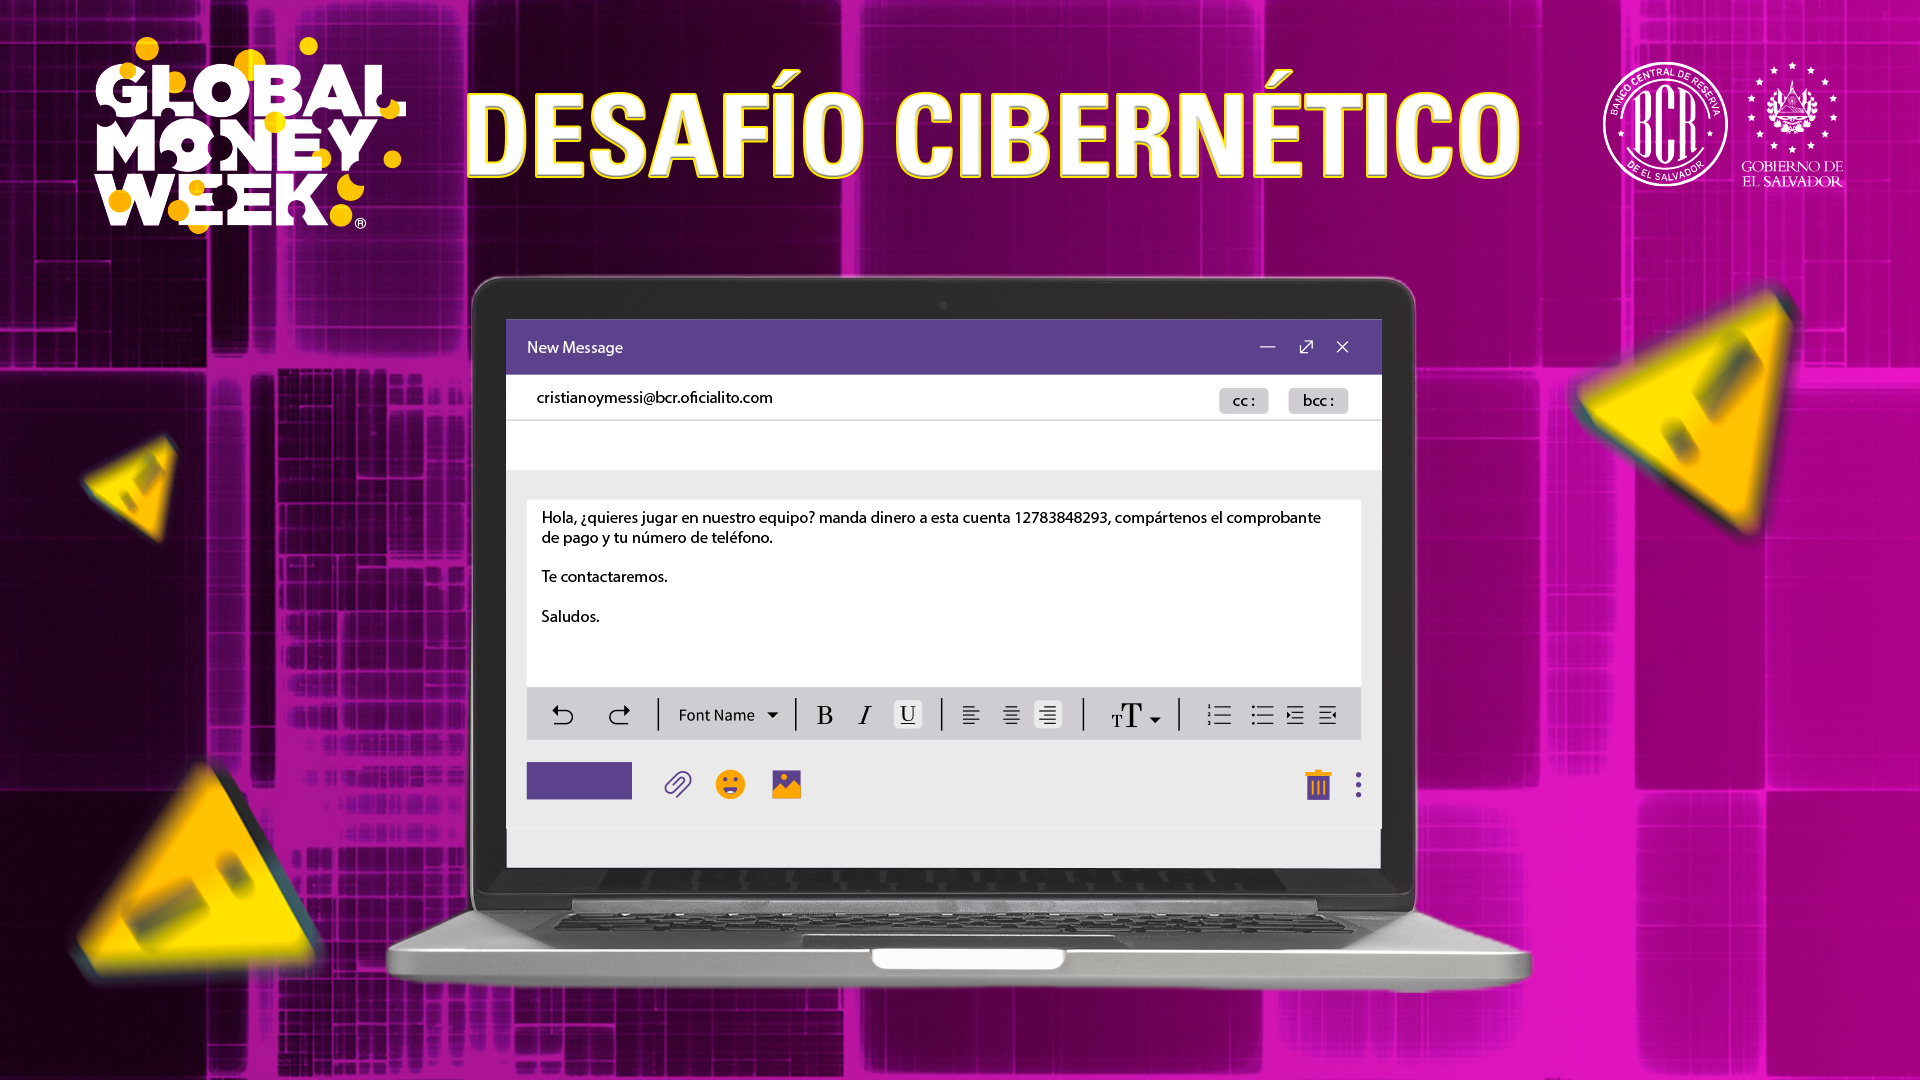
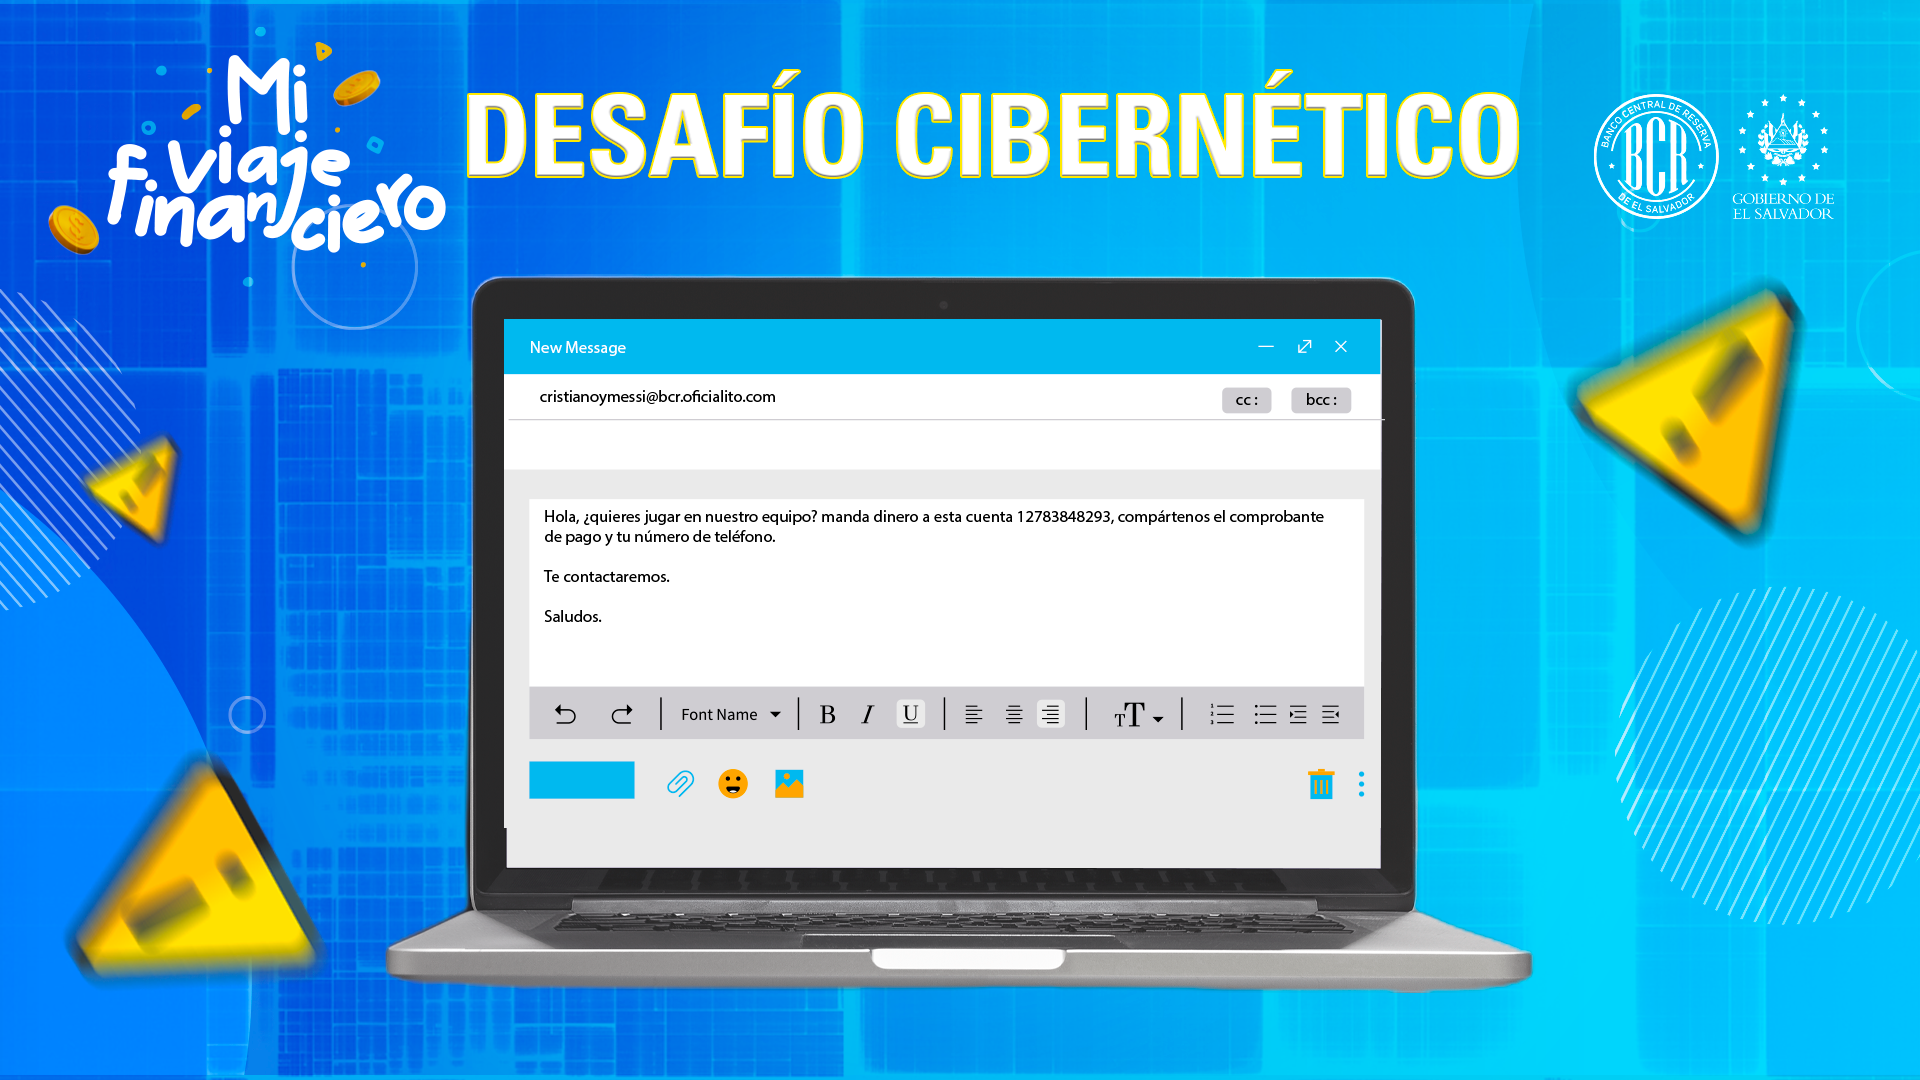
Add files via upload

diff --git a/styleswipe.css b/styleswipe.css
@@ -1,6 +1,6 @@
 
   body {
-      background: linear-gradient(-45deg, #df5bbe, #4e1542);
+    background: linear-gradient(-45deg, #006699, #003366);
       background-size: 400% 400%;
       animation: gradient 5s ease infinite;
       height: 100vh;
@@ -16,6 +16,8 @@
           background-position: 0% 50%;
       }
   }
+
+  
   /*-------------------------------------------------------------------------------------------------*/
   /* Interlace */
   body::after {
@@ -48,13 +50,13 @@
     letter-spacing: 1px;
     text-transform: uppercase;
     font-size: 28px;
-    text-shadow: 0 0 10px rgb(252, 169, 255);
+    text-shadow: 0 0 10px rgb(169, 206, 255);
     transition: text-shadow 0.2s ease-in-out;
     margin: 30px auto;
     line-height: 1.3;
 }
 h1:hover {
-    text-shadow: 0 0 15px rgb(251, 148, 255);
+    text-shadow: 0 0 15px rgb(148, 221, 255);
 }
 p {
     color: #ffffff;
@@ -140,14 +142,14 @@ img {
 	border: 10px solid #ffffff2f;
 	border-radius: 8px;
 	box-shadow: 0 10px 6px -6px rgba(255, 255, 255, 0.5);
-	-moz-box-shadow: 0 10px 6px -6px rgba(248, 40, 255, 0.5);
-	-webkit-box-shadow: 0 10px 6px -6px rgba(198, 76, 255, 0.5);
+	-moz-box-shadow: 0 10px 6px -6px #003366;
+	-webkit-box-shadow: 0 10px 6px -6px #006699;
 }
 .letters span { /* Fondo sopa de letras */
 	float:left;
 	width: 40px;
 	height: 40px;
-	background: rgb(145, 73, 133);
+	background: #006699;
 	line-height: 43px;
 	text-align: center;
 	font-size: 1em;
@@ -165,14 +167,14 @@ img {
 	border: 10px solid #ffffff2f;
 	border-radius: 8px;
 	box-shadow: 0 10px 6px -6px rgba(255, 255, 255, 0.5);
-	-moz-box-shadow: 0 10px 6px -6px rgba(248, 40, 255, 0.5);
-	-webkit-box-shadow: 0 10px 6px -6px rgba(198, 76, 255, 0.5);
+	-moz-box-shadow: 0 10px 6px -6px #003366;
+	-webkit-box-shadow: 0 10px 6px -6px #006699;
 }
 .words span { /* Fondo de Contenedor de palabras */
 	float:left;
 	width: 220px;
 	height: 40px;
-	background: rgb(145, 73, 133);
+	background: #006699;
 	line-height: 45px;
 	text-align: center;
 }
@@ -263,7 +265,7 @@ canvas {
   src: url('./Pixeled.ttf') format('truetype');
   font-weight: 700;
   font-size: 28px;
-  text-shadow: 0 0 10px rgb(252, 169, 255);
+  text-shadow: 0 0 10px #006699;
   position: fixed;
   top: 50%;
   left: 50%;

diff --git a/transfer.js b/transfer.js
@@ -2,7 +2,7 @@ var puntaje = 0;
 function crearContenedor() {
     var contenedor = document.createElement('div');
     contenedor.classList.add('contenedor');
-    contenedor.style.backgroundImage = "url('./IMG/PANTALLAS.png')";
+    contenedor.style.backgroundImage = "url('./IMG/PANTALLAS2.png')";
     contenedor.style.backgroundSize = 'cover';
     // Crear la imagen izquierda
     var imagenIzquierda = document.createElement('img');
@@ -10,6 +10,25 @@ function crearContenedor() {
     imagenIzquierda.style.float = 'left';
     imagenIzquierda.style.width = '15%';
     imagenIzquierda.style.height = 'auto';
+// Create the imagenCoin1
+var imagenCoin1 = document.createElement('img');
+imagenCoin1.src = './IMG/TRANSFER_Coin1.png';
+imagenCoin1.style.position = 'absolute';
+imagenCoin1.style.bottom = '20%'; // Adjust the bottom position as needed
+imagenCoin1.style.right = '10px'; // Adjust the right position as needed
+imagenCoin1.style.width = '20%';
+imagenCoin1.style.height = 'auto';
+contenedor.appendChild(imagenCoin1);
+
+// Create the imagenCoin2
+var imagenCoin2 = document.createElement('img');
+imagenCoin2.src = './IMG/TRANSFER_Coin2.png';
+imagenCoin2.style.position = 'absolute';
+imagenCoin2.style.bottom = '20%'; // Adjust the bottom position as needed
+imagenCoin2.style.left = '10px'; // Adjust the left position as needed
+imagenCoin2.style.width = '20%';
+imagenCoin2.style.height = 'auto';
+contenedor.appendChild(imagenCoin2);
     // Crear la imagen derecha
     var imagenDerecha = document.createElement('img');
     imagenDerecha.src = './IMG/TRANSFERLogo_WB_S1.png';

diff --git a/styleBlueGaze.css b/styleBlueGaze.css
@@ -12,9 +12,6 @@ body {
 	animation: gradient 5s ease infinite;
 	height: 100vh;
 }
-
-
-
 @keyframes gradient {
 	0% {
 		background-position: 0% 50%;
@@ -26,6 +23,21 @@ body {
 		background-position: 0% 50%;
 	}
 }
+
+.special-bg-page {
+  background-image: url('./IMG/PacmanBG.png');
+  background-size: cover;
+  background-repeat: no-repeat;
+  background-position: center;
+  min-height: 100vh;
+  width: 100%;
+  overflow: hidden;
+  position: fixed;
+  top: 0;
+  left: 0;
+  z-index: -1;
+}
+
 /*-------------------------------------------------------------------------------------------------*/
 /* Interlace */
 body::after {
@@ -212,6 +224,14 @@ h2:hover {
 }
 /*--------------------------------------------------------------------------------------------------------*/
 /*PIE DE PAGINA*/
+.img_pie_centro {
+  position: fixed;
+  bottom: 3%;
+  left: 50%;
+  width: 20%;
+  transform: translateX(-50%);
+}
+
 .img_pie_izquierda {
   position: fixed;
   bottom: 0;

diff --git a/pacman.html b/pacman.html
@@ -29,9 +29,14 @@ onclick="window.location.href='./index.html'">
         "(firefox 3.6+, Chrome 4+, Opera 10+ and Safari 4+)</small>";
     }
   </script>
+
+<div class="special-bg-page">
+</div>
+
     <footer>
       <img src="./IMG/LogoSV.png"class="img_pie_izquierda">
       <img src="./IMG/GMWLogo_Color_S2.png"class="img_pie_derecha_3">
+      <img src="./IMG/Pacman_Pie.png"class="img_pie_centro">
     </footer>
   
 
